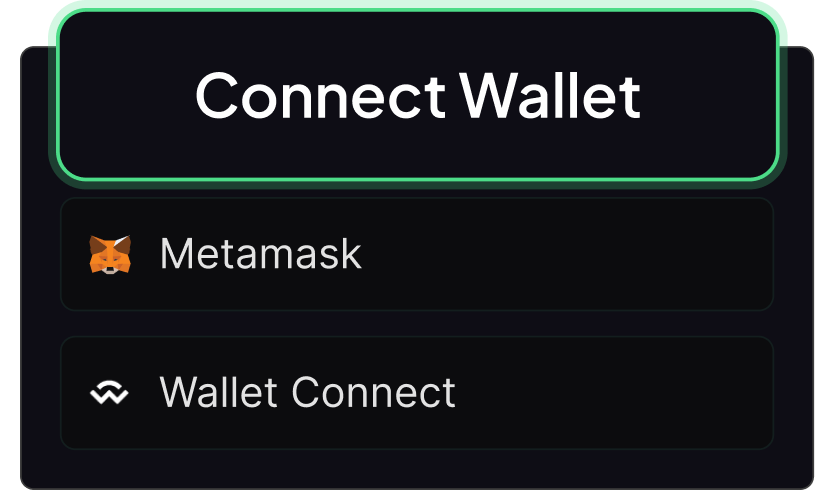
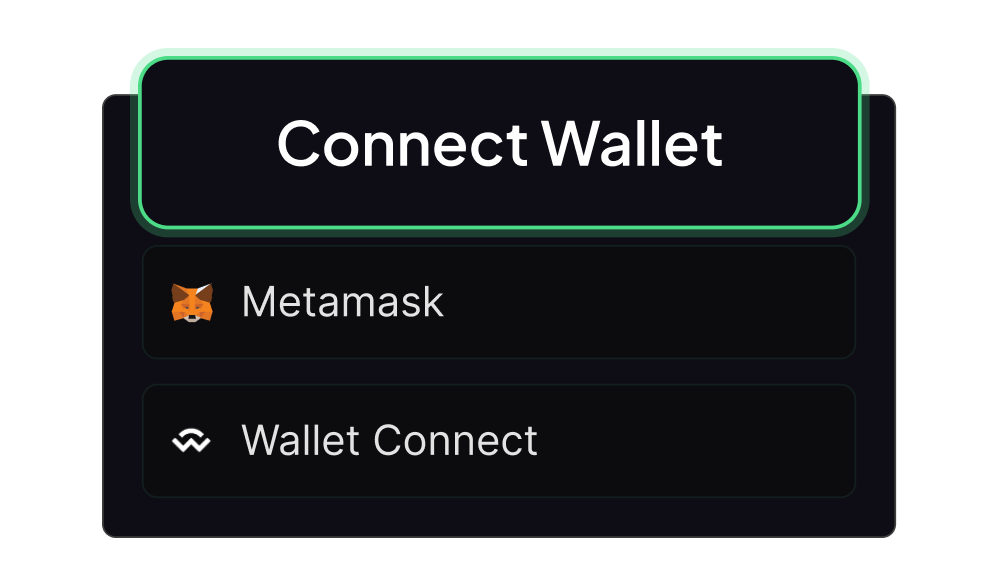
Updates for Tutorial

diff --git a/apps/ui/src/components/tutorialDialog/TutorialDialog.scss b/apps/ui/src/components/tutorialDialog/TutorialDialog.scss
@@ -1,6 +1,6 @@
 .welcome-dialog {
   width: 90%;
-  max-width: 38rem;
+  max-width: 48rem;
   padding: 0;
   border-radius: $borderRadius;
   max-height: 100%;
@@ -25,56 +25,70 @@
     height: 100%;
   }
 
-  .slide-title {
-    font-size: 1.5rem;
-    padding: 1rem;
+  .slide-header {
+    padding: 0 2rem;
+    flex-grow: 1;
+    width: 100%;
+    display: flex;
+    flex-direction: column;
+    height: 12rem;
+
+    &.no-title {
+      padding: 0;
+    }
   }
 
-  .slide-image-box {
+  .slide-title {
+    font-size: 1.5rem;
+    font-weight: bold;
+    padding: 1rem 0;
+    text-align: center;
+  }
+
+  .slide-image {
     width: 100%;
     flex-grow: 1;
-    display: flex;
-    align-items: center;
-    justify-content: center;
-    padding: 0 1rem;
-
-    img {
-      object-fit: cover;
-      width: 100%;
-    }
+    background-position: center;
+    background-repeat: no-repeat;
+    background-size: contain;
   }
 
   .slide-text {
     font-size: 1rem;
+    font-weight: 500;
     text-align: center;
     line-height: 1.5;
     margin: 0;
     padding: 1rem;
   }
 
-  #intro-slide {
-    .slide-image-box {
-      padding: 0;
-    }
-
-    img {
-      width: 100%;
-      height: 100%;
-    }
+  #intro-slide-image {
+    background-image: url('/tutorial/welcome.png');
+    background-size: cover;
   }
 
-  #connect-slide {
-    img {
-      max-width: 24rem;
-    }
+  #connect-slide-image {
+    background-image: url('/tutorial/connect-mob.png');
   }
 
-  #community-slide,
-  #leaderboard-slide {
-    img {
-      max-height: 15rem;
-      object-fit: contain;
-    }
+  #brawlers-slide-image {
+    background-image: url('/tutorial/brawlers_mob.png');
+  }
+
+  #stakes-slide-image {
+    background-image: url('/tutorial/stakes_mob.png');
+  }
+
+  #win-slide-image {
+    background-image: url('/tutorial/win.png');
+  }
+
+  #leaderboard-slide-image {
+    background-image: url('/tutorial/leaderboard.png');
+  }
+
+  #community-slide-image {
+    background-image: url('/tutorial/community.png');
   }
 
   .dialog-footer {
@@ -99,29 +113,39 @@
 
   .dialog-nav {
     width: 100%;
-    max-width: 30rem;
     display: flex;
     justify-content: center;
     gap: 1rem;
   }
 
   @media screen and (min-width: 36rem) {
-    .slide {
-      flex-grow: 1;
+    .slide-header {
+      height: 16rem;
+      padding: 0 3rem;
     }
 
     .slide-title {
       font-size: 2rem;
       padding: 2rem;
-    }
-
-    .slide-image-box {
-      padding: 0 2rem;
+      font-weight: bold;
     }
 
     .slide-text {
+      padding: 1rem 2rem;
       font-size: 1.25rem;
-      padding: 2rem;
+    }
+
+    #connect-slide-image {
+      background-image: url('/tutorial/connect.png');
+      background-size: contain;
+    }
+
+    #brawlers-slide-image {
+      background-image: url('/tutorial/brawlers.png');
+    }
+
+    #stakes-slide-image {
+      background-image: url('/tutorial/stakes.png');
     }
 
     .dialog-footer {
@@ -129,11 +153,12 @@
       padding-bottom: 2rem;
 
       .p-button {
-        padding: 0.5rem 1rem;
+        padding: 0.5rem 2rem;
         justify-content: center;
         flex-grow: 0;
         flex-basis: auto;
         max-width: 20rem;
+        // font-size: 1.25rem;
       }
     }
 
@@ -142,6 +167,16 @@
       width: auto;
       flex-grow: 1;
       justify-content: right;
+    }
+  }
+
+  @media screen and (min-width: 48rem) {
+    .slide-header {
+      height: 20rem;
+    }
+
+    .slide-text {
+      padding: 2rem 4rem;
     }
   }
 }

diff --git a/apps/ui/src/components/tutorialDialog/slides.tsx b/apps/ui/src/components/tutorialDialog/slides.tsx
@@ -3,7 +3,6 @@ import { TutorialSlideProps } from './TutorialSlide';
 export const slides: TutorialSlideProps[] = [
   {
     id: 'intro-slide',
-    image: '/tutorial/welcome.png',
     text: (
       <>
         Be the first to brawl your way to glory.
@@ -14,67 +13,31 @@ export const slides: TutorialSlideProps[] = [
   {
     id: 'connect-slide',
     title: 'Join the Fight',
-    image: '/tutorial/connect.png',
     text: 'Get 1,000 free credits to start Brawling! Login using your email, google, or web3 wallet.',
   },
   {
     id: 'brawlers-slide',
     title: 'Choose your Brawler(s)',
-    image: '/tutorial/brawlers.png',
-    text: (
-      <>
-        Select the Brawler you think will win! <br />
-        The winner is the real-time coin price with the biggest gain!
-      </>
-    ),
+    text: 'Select your brawler! The winner is the real-time coin price with the biggest gain!',
   },
   {
     id: 'stakes-slide',
     title: 'Place your Stake(s)',
-    image: '/tutorial/stakes.png',
-    text: (
-      <>
-        Decide how many credits to stake on your chosen fighter.
-        <br />
-        You can place multiple stakes on either side.
-      </>
-    ),
+    text: 'Decide how many credits to stake on your chosen fighter. You can place multiple stakes on either side.',
   },
   {
     id: 'win-slide',
     title: 'Watch and win big!',
-    image: '/tutorial/win.png',
-    text: (
-      <>
-        Winning stakes share the total pool of credits from their losing
-        opponent.
-        <br />
-        Share your win on X or stake again!
-      </>
-    ),
+    text: 'Winning stakes share the total pool of credits from their losing opponent. Share your win on X or stake again!',
   },
   {
     id: 'leaderboard-slide',
     title: 'Climb the Leaderboard',
-    image: '/tutorial/leaderboard.png',
-    text: (
-      <>
-        Compete in the latest tournament to win real crypto prizes.
-        <br />
-        Stay on top to earn rewards.
-      </>
-    ),
+    text: 'Compete in the latest tournament to win real crypto prizes. Stay on top to earn rewards.',
   },
   {
     id: 'community-slide',
     title: 'Shape the BRAWL3Rs future',
-    image: '/tutorial/community.png',
-    text: (
-      <>
-        Join our community on Discord to share your feedback and shape our
-        direction. Get ready to play with real crypto credits and more coming
-        soon. LFB!
-      </>
-    ),
+    text: 'Join our community on Discord to share your feedback and shape our direction. Get ready to play with real crypto credits and more coming soon. LFB!',
   },
 ];

diff --git a/apps/ui/src/components/layout/Layout.tsx b/apps/ui/src/components/layout/Layout.tsx
@@ -1,6 +1,6 @@
 'use client';
 
-import React, { useEffect, useState } from 'react';
+import React, { useCallback, useEffect, useState } from 'react';
 import Link from 'next/link';
 
 import { JoinButton, MobileJoinButton } from '@/components/JoinButton';
@@ -25,6 +25,8 @@ export const Layout = (props: ChildContainerProps) => {
     setReady(true);
     setTutorialVisible(shouldShowTutorial());
   }, []);
+
+  const hideTutorial = useCallback(() => setTutorialVisible(false), []);
 
   return (
     <div className="layout">
@@ -79,10 +81,7 @@ export const Layout = (props: ChildContainerProps) => {
 
       {props.children}
 
-      <TutorialDialog
-        visible={isTutorialVisible}
-        onHide={() => setTutorialVisible(false)}
-      />
+      <TutorialDialog visible={isTutorialVisible} onHide={hideTutorial} />
     </div>
   );
 };

diff --git a/apps/ui/src/components/tutorialDialog/TutorialSlide.tsx b/apps/ui/src/components/tutorialDialog/TutorialSlide.tsx
@@ -1,18 +1,22 @@
+import { classNames } from 'primereact/utils';
 import { FC, ReactNode } from 'react';
 
 export interface TutorialSlideProps {
   title?: string;
-  image: string;
   text: ReactNode;
   id?: string;
 }
 
 export const TutorialSlide: FC<TutorialSlideProps> = (props) => (
   <div id={props.id} className="slide">
-    {props.title && <div className="slide-title">{props.title}</div>}
+    <div
+      className={classNames('slide-header', {
+        'no-title': !props.title,
+      })}
+    >
+      {props.title && <div className="slide-title">{props.title}</div>}
 
-    <div className="slide-image-box">
-      <img src={props.image} />
+      <div id={`${props.id}-image`} className="slide-image"></div>
     </div>
 
     <p className="slide-text">{props.text}</p>

diff --git a/apps/ui/src/components/tutorialDialog/TutorialDialog.tsx b/apps/ui/src/components/tutorialDialog/TutorialDialog.tsx
@@ -77,7 +77,6 @@ export const TutorialDialog: FC<TutorialDialogProps> = ({
         <div className="dialog-nav">
           {slideNum > 0 && (
             <Button
-              icon="pi pi-arrow-left"
               label="Back"
               className="button-back p-button-secondary p-button-outlined border-none"
               onClick={goBack}
@@ -86,8 +85,6 @@ export const TutorialDialog: FC<TutorialDialogProps> = ({
 
           {!isLastSlide && (
             <Button
-              icon="pi pi-arrow-right"
-              iconPos="right"
               label="Next"
               className="button-next p-button-secondary p-button-outlined"
               onClick={goNext}
